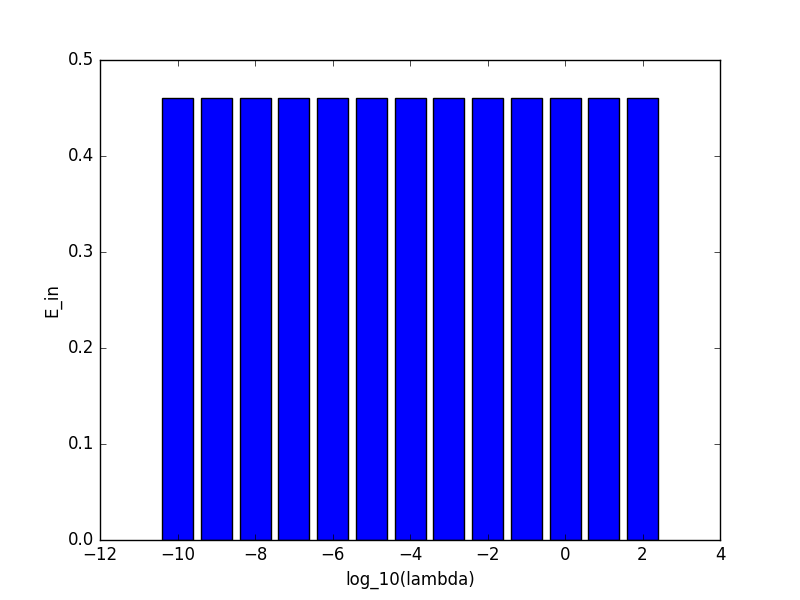
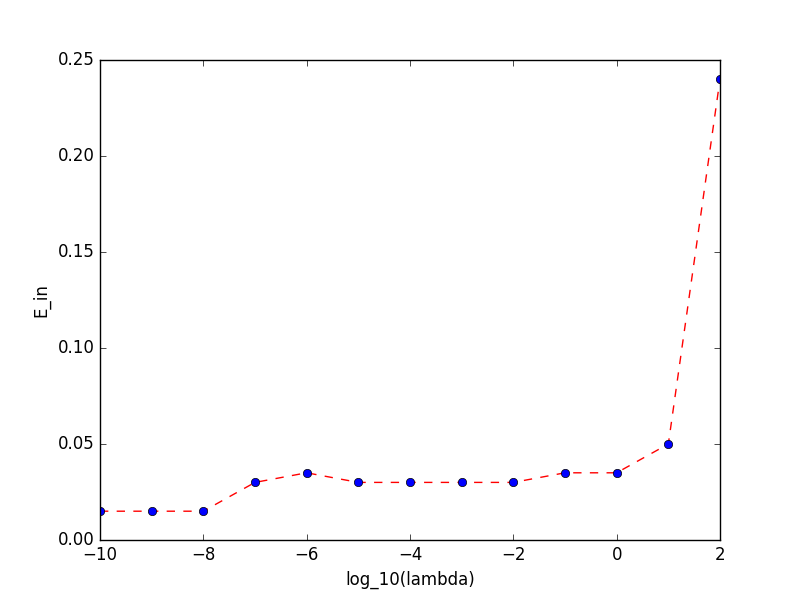
Removed a lot of bugs

diff --git a/HW3/hw3.py b/HW3/hw3.py
@@ -4,7 +4,6 @@ from Linear_regression import *
 from math import exp
 
 if __name__ == '__main__':
-    """
     X_train, Y_train = process_data('./hw3_train.dat')
     X_test, Y_test = process_data('./hw3_test.dat')
     # Q11
@@ -24,8 +23,6 @@ if __name__ == '__main__':
     print 'result of question 12'
     print w
     print ("error_rate: %f") % (error_rate)
-    """
-
 
 
     # Q13
@@ -41,32 +38,37 @@ if __name__ == '__main__':
     print ("E_in: %f") % (error_rate_1)
     print ("E_out: %f") % (error_rate_2)
 
-
     # Q14
+    X_train, Y_train = process_data('./hw4_train.dat')
+    X_test, Y_test = process_data('./hw4_test.dat')
     Lambda_list = range(-10, 3)
     E_in = []
     w_list = []
     for L in Lambda_list:
-        w_list.append(Ridge_Regression(X_train, Y_train, pow(10, L)))
+        w = Ridge_Regression(X_train, Y_train, pow(10, L))
         E_in.append((1-error_test_0_1(w, X_train, Y_train)))
+        w_list.append(w)
     best = find_best_lambda(E_in, Lambda_list)
     histogram_2(Lambda_list, E_in, 'question_14.png', 'log_10(lambda)', 'E_in')
     error = 1 - error_test_0_1(w_list[best], X_test, Y_test)
     print 'result of question 14'
-    print 'best lambda: %f, out of sample error: %f' % (pow(10, Lambda_list[best]), error)
+    print 'best log_10(lambda): %d, out of sample error: %f' % (Lambda_list[best], error)
 
     # Q15
     Lambda_list = range(-10, 3)
     E_in = []
     E_out = []
+    w_list = []
     for L in Lambda_list:
         w = Ridge_Regression(X_train, Y_train, pow(10, L))
         E_out.append((1-error_test_0_1(w, X_test, Y_test)))
+        w_list.append(w)
     best = find_best_lambda(E_out, Lambda_list)
     histogram_2(Lambda_list, E_out, 'question_15.png', 'log_10(lambda)', 'E_out')
     error = 1 - error_test_0_1(w_list[best], X_test, Y_test)
     print 'result of question 15'
-    print 'best lambda: %f, out of sample error: %f' % (pow(10, Lambda_list[best]), error)
+    #print 'best lambda: %f, out of sample error: %f' % (pow(10, Lambda_list[best]), error)
+    print 'best log_10(lambda): %d, out of sample error: %f' % (Lambda_list[best], error)
 
     # Q16
     X_train_s = X_train[:120]
@@ -77,13 +79,14 @@ if __name__ == '__main__':
     E_out = []
     w_list = []
     for L in Lambda_list:
-        w_list.append(Ridge_Regression(X_train_s, Y_train_s, pow(10, L)))
+        w = Ridge_Regression(X_train_s, Y_train_s, pow(10, L))
         E_in.append((1-error_test_0_1(w, X_train_s, Y_train_s)))
+        w_list.append(w)
     best = find_best_lambda(E_in, Lambda_list)
     histogram_2(Lambda_list, E_in, 'question_16.png', 'log_10(lambda)', 'E_in')
     error = 1 - error_test_0_1(w_list[best], X_test, Y_test)
     print 'result of question 16'
-    print 'best lambda: %f, out of sample error: %f' % (pow(10, Lambda_list[best]), error)
+    print 'best log_10(lambda): %d, out of sample error: %f' % (Lambda_list[best], error)
 
     # Q17
     X_train_s = X_train[:120]
@@ -94,21 +97,22 @@ if __name__ == '__main__':
     E_val = []
     w_list = []
     for L in Lambda_list:
-        w_list.append(Ridge_Regression(X_train_s, Y_train_s, pow(10, L)))
+        w = Ridge_Regression(X_train_s, Y_train_s, pow(10, L))
         E_val.append((1-error_test_0_1(w, X_val, Y_val)))
+        w_list.append(w)
     best = find_best_lambda(E_val, Lambda_list)
     histogram_2(Lambda_list, E_val, 'question_17.png', 'log_10(lambda)', 'E_val')
     error = 1 - error_test_0_1(w_list[best], X_test, Y_test)
     print 'result of question 17'
-    print 'best lambda: %f, out of sample error: %f' % (pow(10, Lambda_list[best]), error)
+    print 'best log_10(lambda): %d, out of sample error: %f' % (Lambda_list[best], error)
 
     # Q18
     Lambda_best = Lambda_list[best]
-    w = Ridge_Regression(X_train, Y_train, pow(10, L))
+    w = Ridge_Regression(X_train, Y_train, pow(10, Lambda_best))
     E_in = 1 - error_test_0_1(w, X_train, Y_train)
     E_out = 1 - error_test_0_1(w, X_test, Y_test)
     print 'result of question 18'
-    print 'best lambda: %f, in sample error: %f, out of sample error: %f' % (pow(10, Lambda_best), E_in, E_out)
+    print 'best log_10(lambda): %d, in sample error: %f, out of sample error: %f' % (Lambda_best, E_in, E_out)
 
     # Q19
     E_cv = []
@@ -119,8 +123,8 @@ if __name__ == '__main__':
         for i in range(5):
             index = range(5)
             index.remove(i)
-            X_cv_train = X_cv[index[1]]
-            Y_cv_train = Y_cv[index[1]]
+            X_cv_train = X_cv[index[0]]
+            Y_cv_train = Y_cv[index[0]]
             for j in index[1:]:
                 X_cv_train = np.row_stack((X_cv_train, X_cv[j]))
                 Y_cv_train = np.concatenate((Y_cv_train, Y_cv[j]))
@@ -129,14 +133,13 @@ if __name__ == '__main__':
         E_cv.append(error_sum/5)
     best = find_best_lambda(E_cv, Lambda_list)
     print 'result of question 19'
-    print 'Cross validation error: %f, best lambda: %f' % (E_cv[best], pow(10, Lambda_list[best]))
+    print 'Cross validation error: %f, best log_10(lambda): %d' % (E_cv[best], Lambda_list[best])
 
     # Q20
     Lambda_best = Lambda_list[best]
-    w = Ridge_Regression(X_train, Y_train, pow(10, L))
+    w = Ridge_Regression(X_train, Y_train, pow(10, Lambda_best))
     E_in = 1 - error_test_0_1(w, X_train, Y_train)
     E_out = 1 - error_test_0_1(w, X_test, Y_test)
     print 'result of question 20'
-    print 'best lambda: %f, in sample error: %f, out of sample error: %f' % (pow(10, Lambda_best), E_in, E_out)
-
+    print 'best log_10(lambda): %d, in sample error: %f, out of sample error: %f' %  (Lambda_best, E_in, E_out)
 

diff --git a/HW3/data_processing.py b/HW3/data_processing.py
@@ -7,7 +7,7 @@ def process_data(filename):
     y_arr = []
     with open(filename, 'r') as f:
         for line in f:
-            tmp = []
+            tmp = [1, ]
             line = line.strip('\n').strip().replace('\t', ' ').split(' ')
             for x in line[:-1]:
                 tmp.append(float(x))
@@ -56,3 +56,9 @@ def histogram_2(x, y, filename, xlabel, ylabel):
     plt.xlabel(xlabel)
     plt.ylabel(ylabel)
     fig.savefig(filename)
+
+def curve(x, y, filename, xlabel, ylabel):
+    plt.plot(x, y, 'r--', x, y, 'bo')
+    plt.xlabel(xlabel)
+    plt.ylabel(ylabel)
+    plt.savefig(filename)

diff --git a/HW3/Linear_regression.py b/HW3/Linear_regression.py
@@ -15,4 +15,4 @@ def find_best_lambda(E, L):
         if E[i] <= error:
             error = E[i]
             ind = i
-    return i
+    return ind
